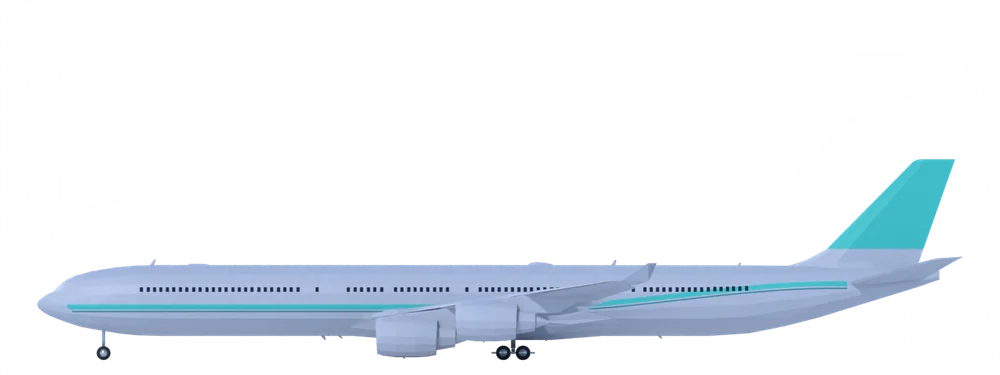
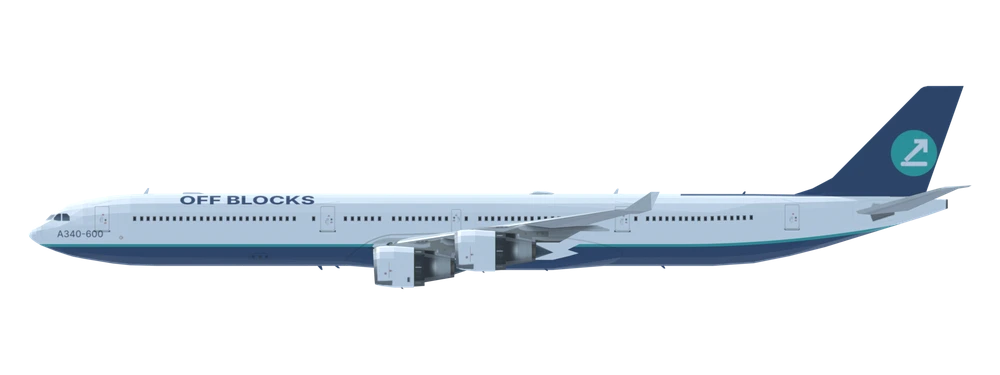
Off Blocks livery renders for A330/A340/A350 family
Claude-Session: https://claude.ai/code/session_01XrFePU9h1hCzy7p7tSHsYD

diff --git a/sw.js b/sw.js
@@ -1,5 +1,5 @@
 /* Off Blocks service worker. Bump VER to push an update to installed copies. */
-const VER='ob-v38',CORE=["./", "index.html", "manifest.webmanifest", "network.json", "icons/icon-192.png", "icons/icon-512.png", "mapimg/detail.json", "mapimg/sat.webp", "mapimg/terrain.webp", "img/A19N.webp", "img/A19N_side.webp", "img/A20N.webp", "img/A20N_side.webp", "img/A21N.webp", "img/A21N_side.webp", "img/A21X.webp", "img/A21X_side.webp", "img/A306_side.webp", "img/A310.webp", "img/A310_side.webp", "img/A318.webp", "img/A318_side.webp", "img/A319.webp", "img/A319_side.webp", "img/A320.webp", "img/A320_side.webp", "img/A321.webp", "img/A321_side.webp", "img/A332_side.webp", "img/A333_side.webp", "img/A338.webp", "img/A338_side.webp", "img/A339.webp", "img/A339_side.webp", "img/A343_side.webp", "img/A346_side.webp", "img/A359_side.webp", "img/A35K.webp", "img/A35K_side.webp", "img/A388_side.webp", "img/AN24.webp", "img/AR21.webp", "img/AT42_side.webp", "img/AT76_side.webp", "img/B190.webp", "img/B37M.webp", "img/B37M_side.webp", "img/B38M.webp", "img/B38M_side.webp", "img/B39M.webp", "img/B39M_side.webp", "img/B3XM.webp", "img/B3XM_side.webp", "img/B712.webp", "img/B712_side.webp", "img/B722_side.webp", "img/B732.webp", "img/B732_side.webp", "img/B733_side.webp", "img/B734_side.webp", "img/B735.webp", "img/B735_side.webp", "img/B736_side.webp", "img/B737_side.webp", "img/B738_side.webp", "img/B739_side.webp", "img/B744_side.webp", "img/B748_side.webp", "img/B752.webp", "img/B752_side.webp", "img/B753.webp", "img/B753_side.webp", "img/B762.webp", "img/B762_side.webp", "img/B763_side.webp", "img/B764.webp", "img/B764_side.webp", "img/B772_side.webp", "img/B773.webp", "img/B773_side.webp", "img/B779.webp", "img/B779_side.webp", "img/B77L_side.webp", "img/B77W_side.webp", "img/B788_side.webp", "img/B789_side.webp", "img/B78X_side.webp", "img/BCS1_side.webp", "img/BCS3_side.webp", "img/C208.webp", "img/C208_side.webp", "img/C919.webp", "img/C919_side.webp", "img/CRJ2.webp", "img/CRJ2_side.webp", "img/CRJ7_side.webp", "img/CRJ9.webp", "img/CRJ9_side.webp", "img/CRJX_side.webp", "img/D328.webp", "img/DH8A.webp", "img/DH8A_side.webp", "img/DH8C_side.webp", "img/DH8D_side.webp", "img/DHC6_side.webp", "img/E120.webp", "img/E120_side.webp", "img/E135.webp", "img/E135_side.webp", "img/E140.webp", "img/E140_side.webp", "img/E145.webp", "img/E145_side.webp", "img/E170_side.webp", "img/E175_side.webp", "img/E190_side.webp", "img/E195.webp", "img/E195_side.webp", "img/E290_side.webp", "img/E295.webp", "img/E295_side.webp", "img/E75X.webp", "img/E75X_side.webp", "img/F100.webp", "img/F100_side.webp", "img/F50.webp", "img/F50_side.webp", "img/F70.webp", "img/F70_side.webp", "img/J41.webp", "img/L410.webp", "img/L410_side.webp", "img/MA60.webp", "img/MD83.webp", "img/MD83_side.webp", "img/MD90.webp", "img/MD90_side.webp", "img/RJ1H.webp", "img/RJ1H_side.webp", "img/RJ85.webp", "img/RJ85_side.webp", "img/SB20.webp", "img/SF34_side.webp", "img/T154.webp", "img/T154_side.webp"];
+const VER='ob-v39',CORE=["./", "index.html", "manifest.webmanifest", "network.json", "icons/icon-192.png", "icons/icon-512.png", "mapimg/detail.json", "mapimg/sat.webp", "mapimg/terrain.webp", "img/A19N.webp", "img/A19N_side.webp", "img/A20N.webp", "img/A20N_side.webp", "img/A21N.webp", "img/A21N_side.webp", "img/A21X.webp", "img/A21X_side.webp", "img/A306_side.webp", "img/A310.webp", "img/A310_side.webp", "img/A318.webp", "img/A318_side.webp", "img/A319.webp", "img/A319_side.webp", "img/A320.webp", "img/A320_side.webp", "img/A321.webp", "img/A321_side.webp", "img/A332_side.webp", "img/A333_side.webp", "img/A338.webp", "img/A338_side.webp", "img/A339.webp", "img/A339_side.webp", "img/A343_side.webp", "img/A346_side.webp", "img/A359_side.webp", "img/A35K.webp", "img/A35K_side.webp", "img/A388_side.webp", "img/AN24.webp", "img/AR21.webp", "img/AT42_side.webp", "img/AT76_side.webp", "img/B190.webp", "img/B37M.webp", "img/B37M_side.webp", "img/B38M.webp", "img/B38M_side.webp", "img/B39M.webp", "img/B39M_side.webp", "img/B3XM.webp", "img/B3XM_side.webp", "img/B712.webp", "img/B712_side.webp", "img/B722_side.webp", "img/B732.webp", "img/B732_side.webp", "img/B733_side.webp", "img/B734_side.webp", "img/B735.webp", "img/B735_side.webp", "img/B736_side.webp", "img/B737_side.webp", "img/B738_side.webp", "img/B739_side.webp", "img/B744_side.webp", "img/B748_side.webp", "img/B752.webp", "img/B752_side.webp", "img/B753.webp", "img/B753_side.webp", "img/B762.webp", "img/B762_side.webp", "img/B763_side.webp", "img/B764.webp", "img/B764_side.webp", "img/B772_side.webp", "img/B773.webp", "img/B773_side.webp", "img/B779.webp", "img/B779_side.webp", "img/B77L_side.webp", "img/B77W_side.webp", "img/B788_side.webp", "img/B789_side.webp", "img/B78X_side.webp", "img/BCS1_side.webp", "img/BCS3_side.webp", "img/C208.webp", "img/C208_side.webp", "img/C919.webp", "img/C919_side.webp", "img/CRJ2.webp", "img/CRJ2_side.webp", "img/CRJ7_side.webp", "img/CRJ9.webp", "img/CRJ9_side.webp", "img/CRJX_side.webp", "img/D328.webp", "img/DH8A.webp", "img/DH8A_side.webp", "img/DH8C_side.webp", "img/DH8D_side.webp", "img/DHC6_side.webp", "img/E120.webp", "img/E120_side.webp", "img/E135.webp", "img/E135_side.webp", "img/E140.webp", "img/E140_side.webp", "img/E145.webp", "img/E145_side.webp", "img/E170_side.webp", "img/E175_side.webp", "img/E190_side.webp", "img/E195.webp", "img/E195_side.webp", "img/E290_side.webp", "img/E295.webp", "img/E295_side.webp", "img/E75X.webp", "img/E75X_side.webp", "img/F100.webp", "img/F100_side.webp", "img/F50.webp", "img/F50_side.webp", "img/F70.webp", "img/F70_side.webp", "img/J41.webp", "img/L410.webp", "img/L410_side.webp", "img/MA60.webp", "img/MD83.webp", "img/MD83_side.webp", "img/MD90.webp", "img/MD90_side.webp", "img/RJ1H.webp", "img/RJ1H_side.webp", "img/RJ85.webp", "img/RJ85_side.webp", "img/SB20.webp", "img/SF34_side.webp", "img/T154.webp", "img/T154_side.webp"];
 self.addEventListener('install',e=>{e.waitUntil(caches.open(VER).then(c=>Promise.all(CORE.map(u=>c.add(u).catch(()=>0)))).then(()=>self.skipWaiting()))});
 self.addEventListener('activate',e=>{e.waitUntil(caches.keys().then(k=>Promise.all(k.filter(x=>x!==VER).map(x=>caches.delete(x)))).then(()=>self.clients.claim()))});
 self.addEventListener('fetch',e=>{const r=e.request,u=new URL(r.url);if(r.method!=='GET'||u.origin!==location.origin)return;

diff --git a/index.html b/index.html
@@ -180,7 +180,7 @@ const lvBase=src=>new Promise(res=>{if(LVI.base[src])return res(LVI.base[src]);c
 const PHOTOS_OFF={B39M:{src:'img/B39M_photo.webp',by:'Clemens Vasters',lic:'CC BY 2.0',lu:'https://creativecommons.org/licenses/by/2.0/',url:'https://commons.wikimedia.org/wiki/File:N7379E_-_Boeing_737_MAX_9.jpg',n:'Boeing 737 MAX 9'}};
 const PHOTOS={};
 /* types with a finished Off Blocks livery render: shown as-is, no repaint */
-const LVNAT={B38M:1,B39M:1,A318:1,A319:1,A320:1,A321:1,A19N:1,A20N:1,A21N:1,A21X:1};
+const LVNAT={B38M:1,B39M:1,A318:1,A319:1,A320:1,A321:1,A19N:1,A20N:1,A21N:1,A21X:1,A332:1,A333:1,A338:1,A339:1,A343:1,A346:1,A359:1,A35K:1};
 const lvSrc=(c,v,l)=>LVI.cache[lvKey(c,v,l)]||'img/'+c+(v==='s'?'_side':'')+'.webp';
 /* natural white: the renders come out blue-grey, so lift and neutralise every light, low-saturation pixel (windows, gear and dark detail are left alone) */
 function lvRefL(d,A){const a=[];for(let i=0;i<A.length;i+=7){if(!A[i])continue;const j=i*4,r=d[j],g=d[j+1],b=d[j+2],mx=Math.max(r,g,b),lu=.3*r+.59*g+.11*b;if(lu>110&&(mx-Math.min(r,g,b))/(mx||1)<.36)a.push(lu)}if(!a.length)return 190;a.sort((p,q)=>p-q);return a[a.length>>1]}
